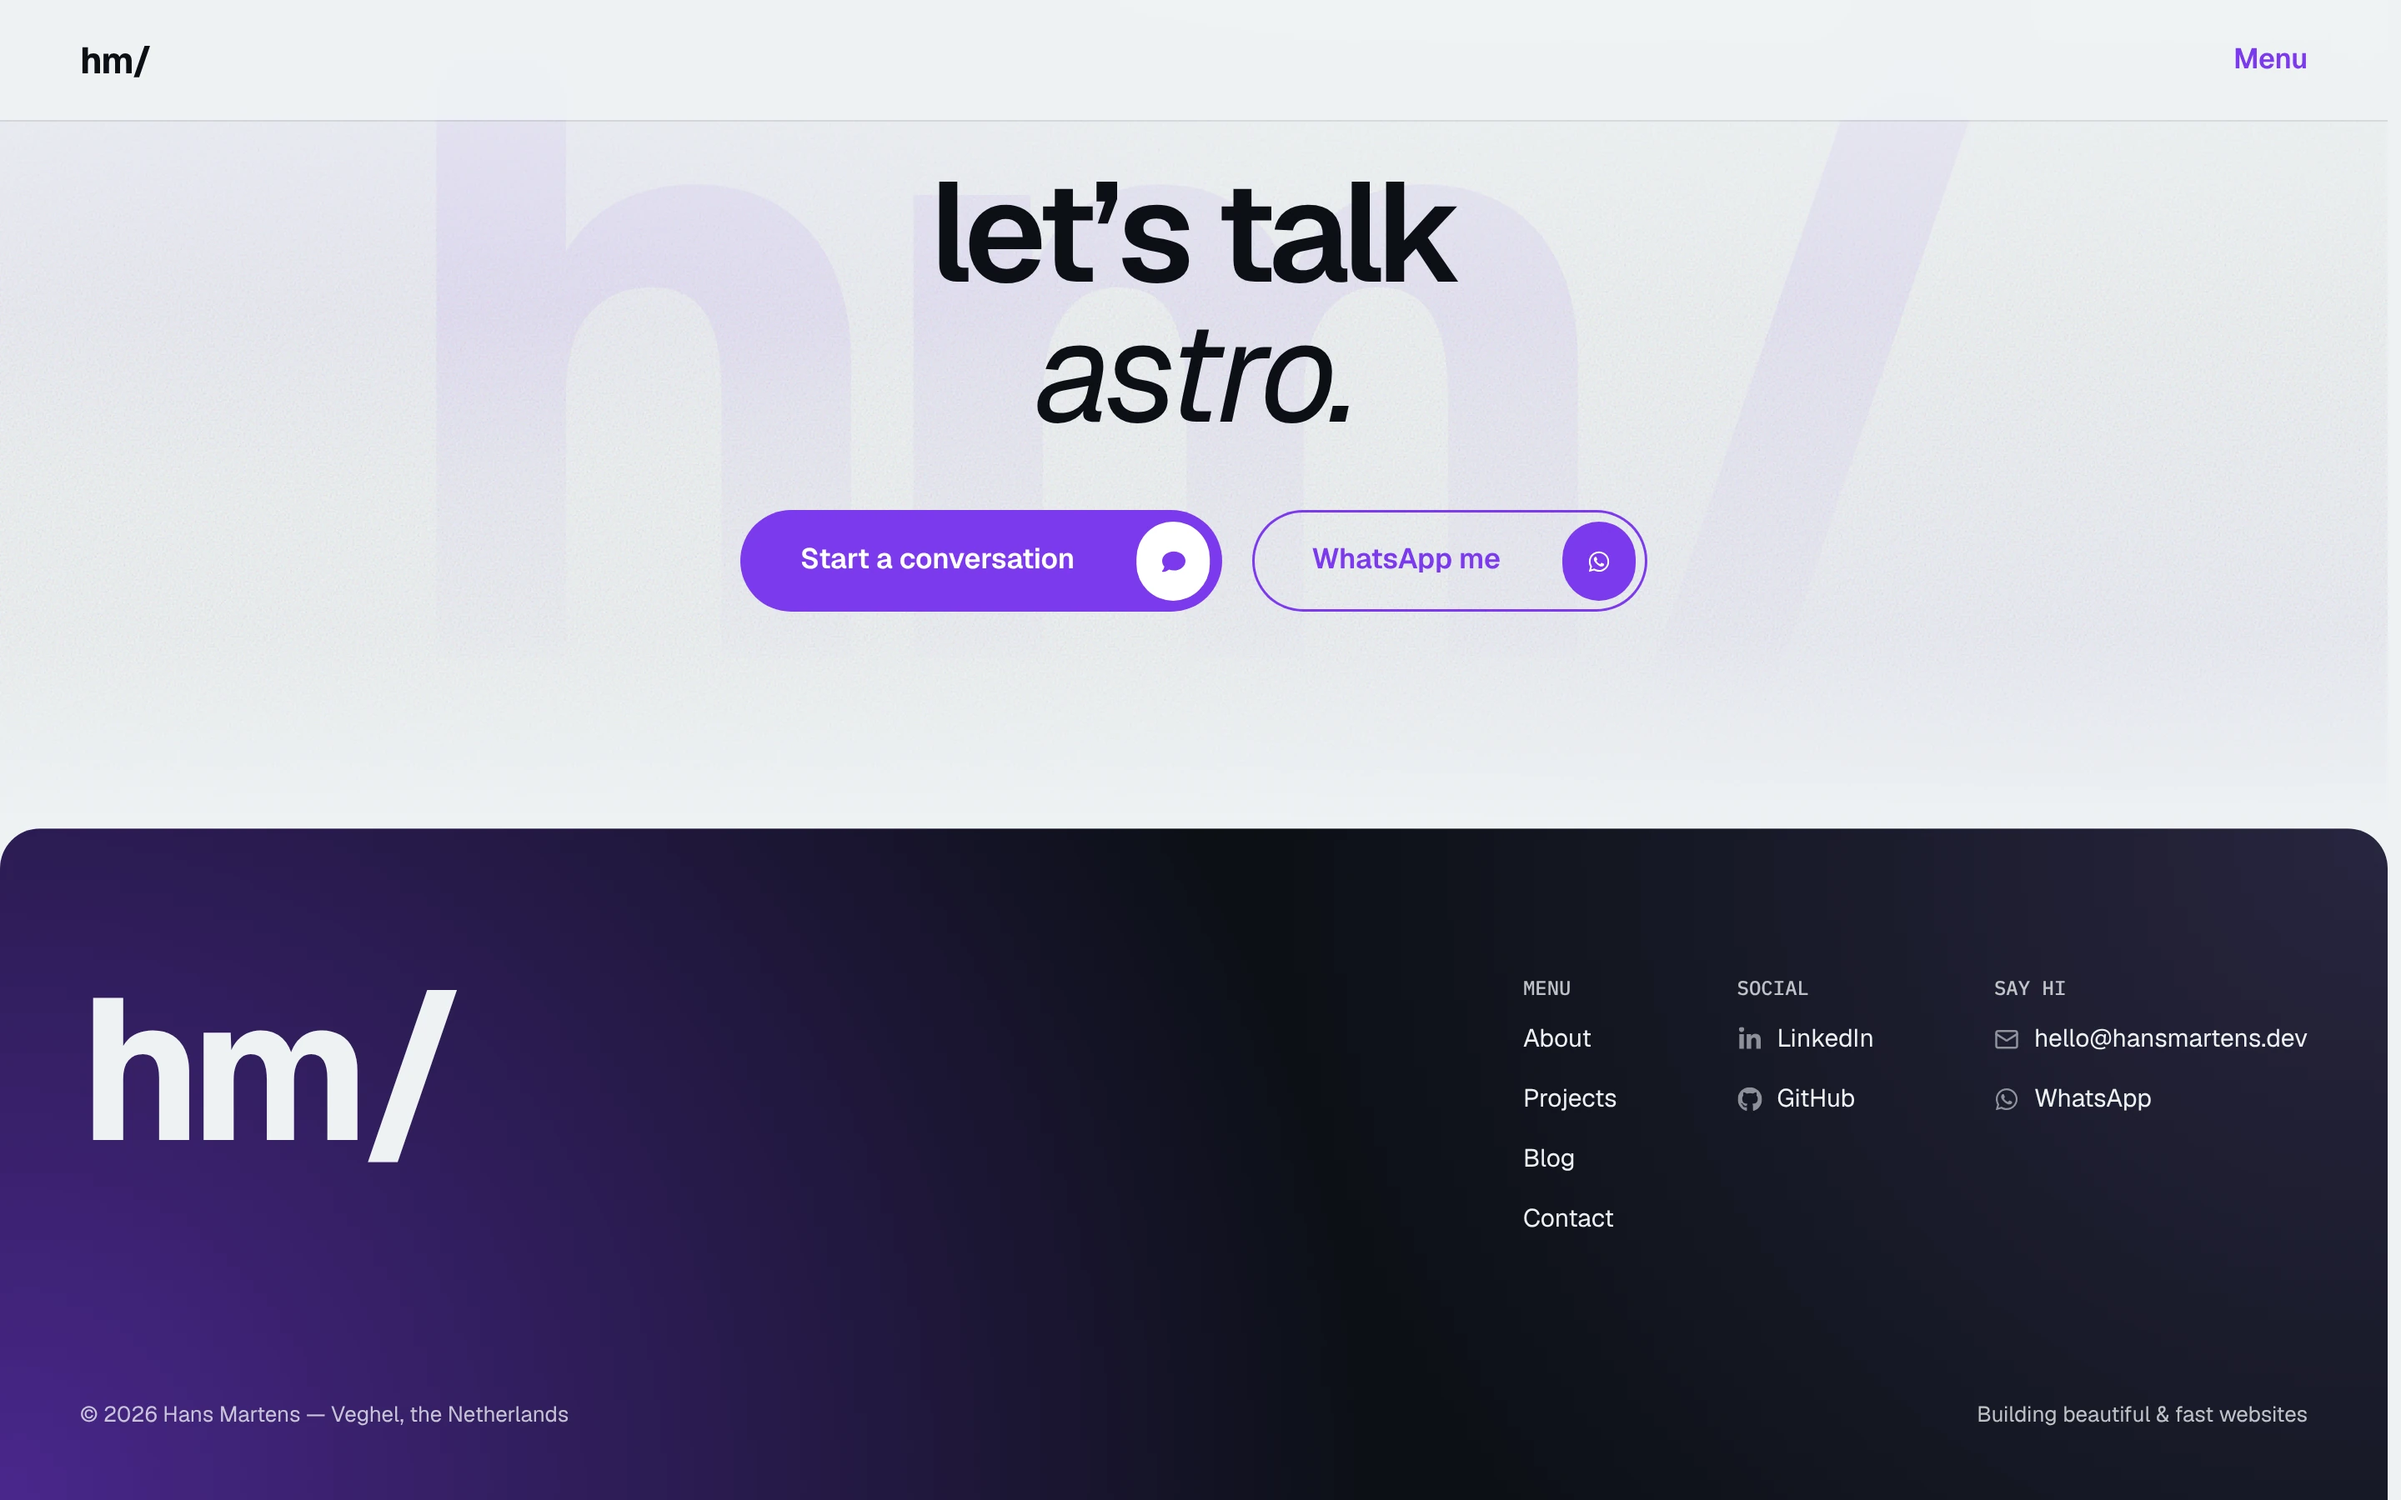
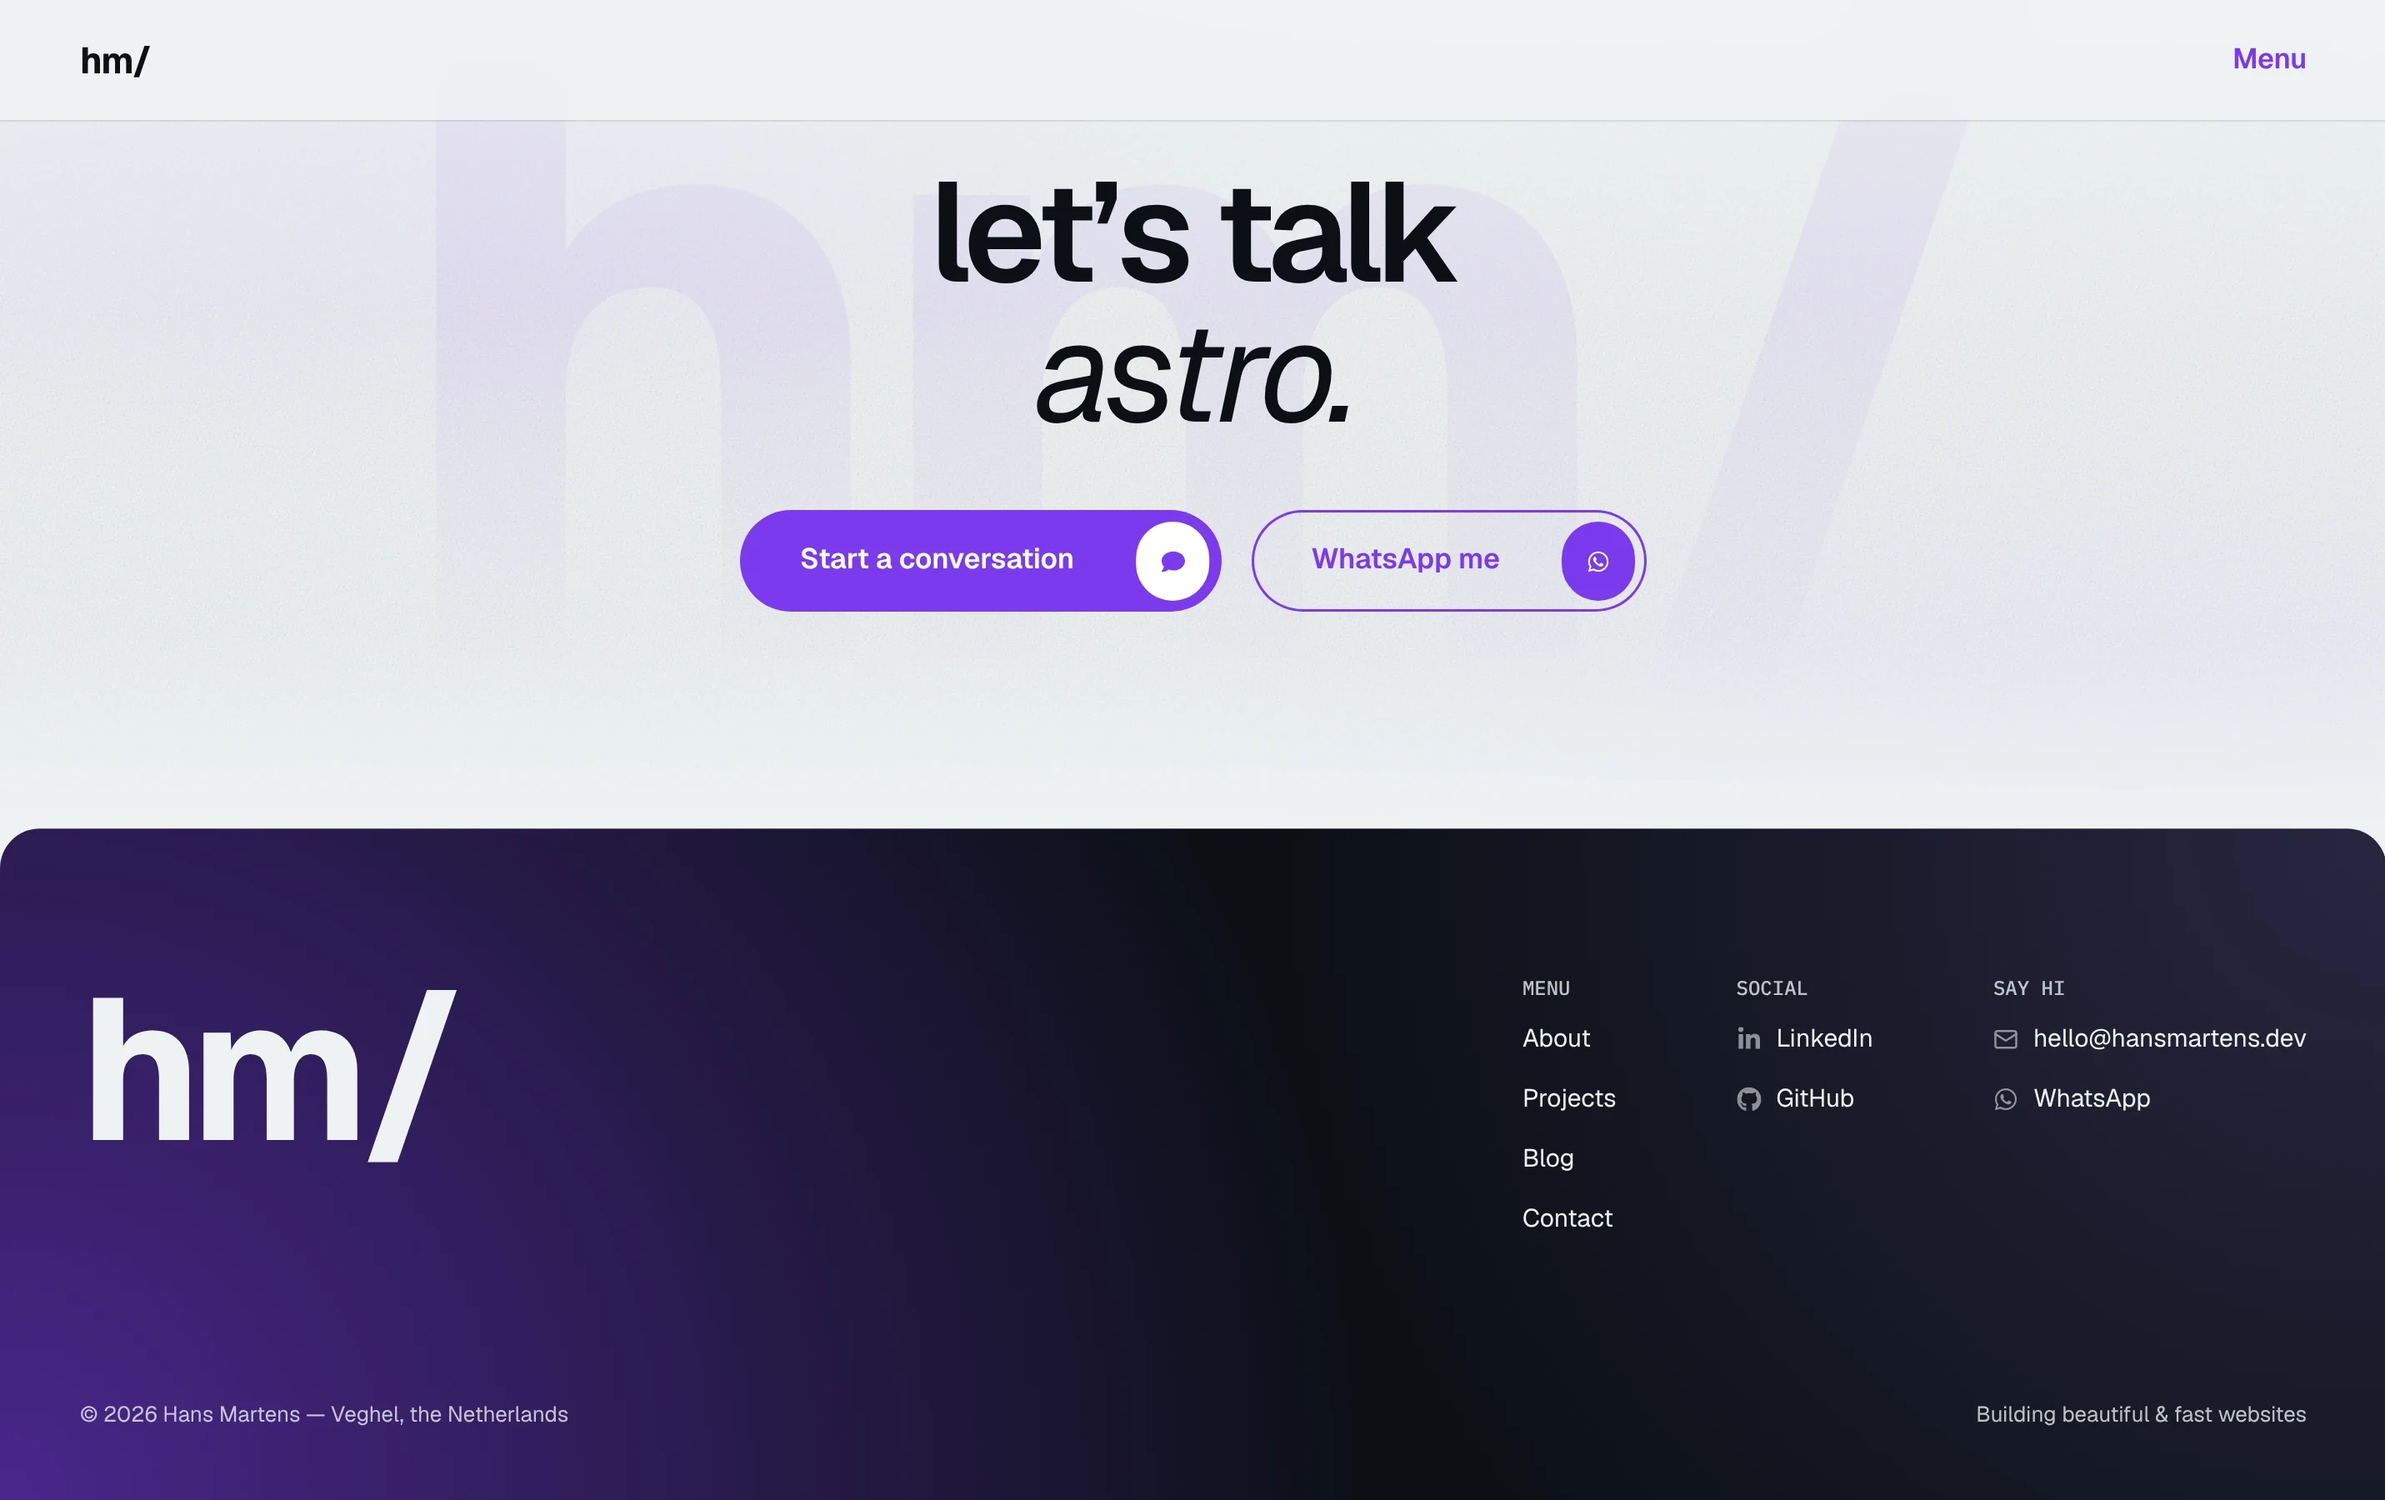
Project 1: borders on the other light captures
Blog post, phones, From the blog and the sign-off get the same thin
border as the open menu. The sign-off's light strip along the right
edge is cropped off.

Claude-Session: https://claude.ai/code/session_01QQKtzRrqmVqCvb8agowgiA

diff --git a/src/content/work/hansmartens-dev.md b/src/content/work/hansmartens-dev.md
@@ -15,15 +15,19 @@ gallery:
     alt: "The What drives me card from the homepage, with Hans's quote in white and violet"
   - src: "../../assets/work/hansmartens-dev/blog-post.webp"
     alt: "A blog post on hansmartens.dev, opening with its dark violet header card"
+    frame: true
   - src: "../../assets/work/hansmartens-dev/phones.webp"
     alt: "Three phones showing the homepage, a blog post and the open menu"
+    frame: true
   - src: "../../assets/work/hansmartens-dev/menu-open.webp"
     alt: "The open menu: the four pages on a light sheet with a wavy edge, over a violet veil on the homepage"
     frame: true
   - src: "../../assets/work/hansmartens-dev/from-the-blog.webp"
     alt: "The From the blog card on the homepage, with the post's generated cover"
+    frame: true
   - src: "../../assets/work/hansmartens-dev/sign-off.webp"
     alt: "The sign-off, Let's talk Astro, with violet buttons above the footer's violet glow"
+    frame: true
   - src: "../../assets/work/hansmartens-dev/craft-card.webp"
     alt: "The Web Development card from the homepage, with its code icon, tags and text"
 challenge: "PLACEHOLDER: why a new website."
